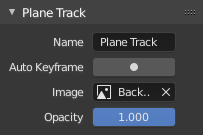
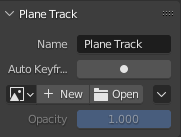
Plane Track: Documentation for New Image from plane track Operator
git-svn-id: https://svn.blender.org/svnroot/bf-manual/trunk/blender_docs@9515 c4de1f47-6596-e411-a384-0024e86c2797

diff --git a/manual/movie_clip/tracking/clip/sidebar/track/plane_track.rst b/manual/movie_clip/tracking/clip/sidebar/track/plane_track.rst
@@ -28,6 +28,13 @@ Image
    To include it in your final render,
    see :doc:`Plane Track Deform node </compositing/types/distort/plane_track_deform>`.
 
+New Image from Plane Track
+    Creates an image from the pixels of the movieclip that the plane marker "sees" at the current frame.
+    This allows to create an unwarped texture of any flat surface in the footage.
+    The resulting image can then be used for editing and retouching, for example to paint out certain parts of the footage.
+Update Image from Plane Track
+    Updates the pixels of the active Plane Track's image. 
+
 .. _bpy.types.MovieTrackingPlaneTrack.image_opacity:
 
 Opacity
